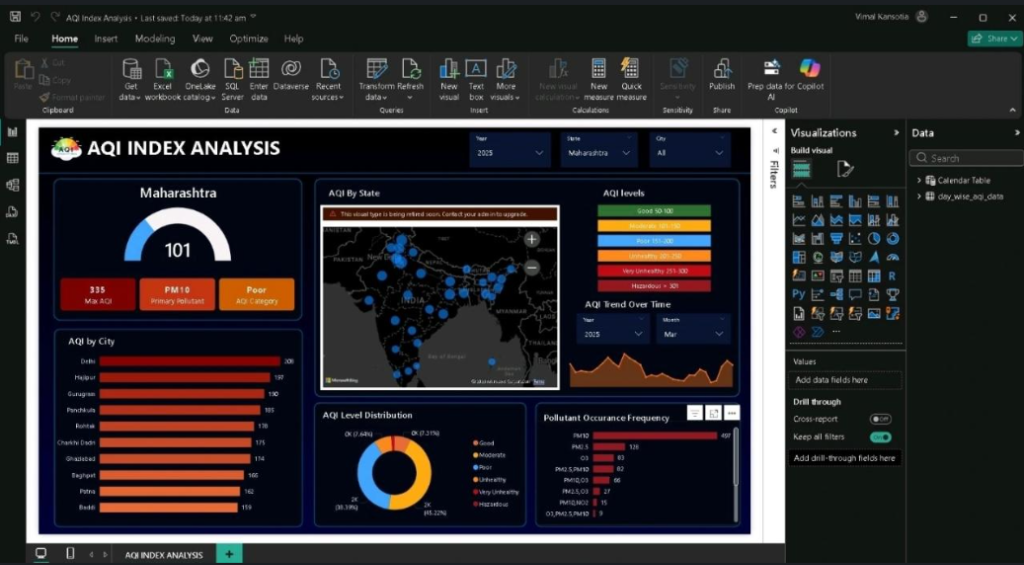
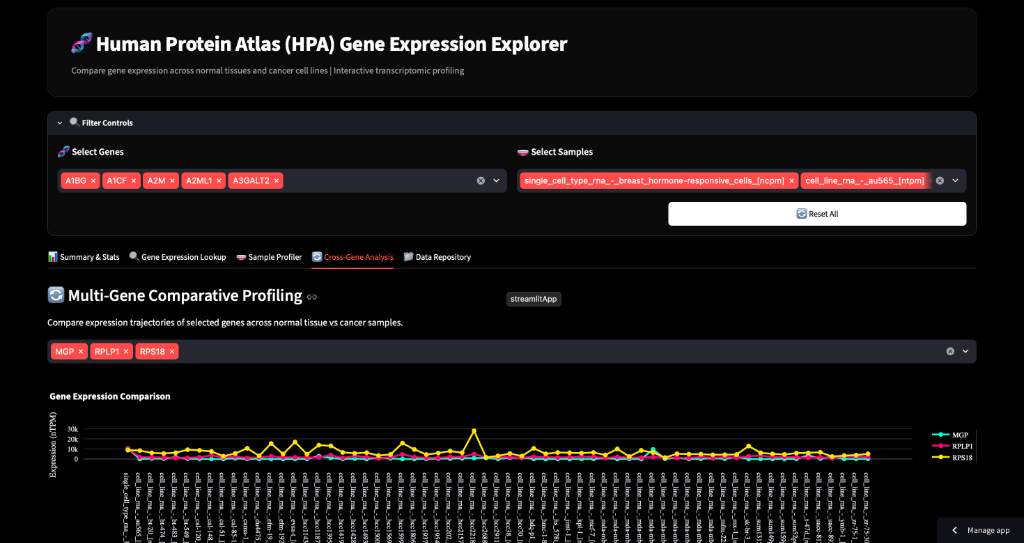
feat: add PCV3 Bioinformatics project and update HPA project image

diff --git a/src/components/ProjectsSection.jsx b/src/components/ProjectsSection.jsx
@@ -57,6 +57,27 @@ const DEFAULT_PROJECTS = [
     github: 'https://github.com/vimal-kansotia/loan-credit-risk-prediction'
   },
   {
+    id: 'project-pcv3-bioinformatics',
+    title: 'PCV3 Bioinformatics & Phylogenetics Dashboard',
+    category: 'BIOINFORMATICS & GENOMIC DATA SCIENCE',
+    description: 'Comprehensive bioinformatics and genomic data science pipeline for analyzing genome variation, phylogenetics, and spatio-temporal trends across 500 complete Porcine Circovirus 3 (PCV3) genome sequences using MAFFT, IQ-TREE 3, PCA, K-Means clustering, and Monte Carlo statistical testing.',
+    techStack: ['Streamlit', 'Python', 'Biopython', 'MAFFT', 'IQ-TREE 3', 'Scikit-learn', 'Plotly', 'Pandas', 'NumPy', 'Phylogenetics'],
+    highlights: [
+      'Analyzed 500 PCV3 complete viral genome sequences (2,156 bp MAFFT alignment with 890 variable sites & 466 parsimony-informative sites)',
+      'Unsupervised ML genomic variation mapping with PCA (PC1: 22.4%, PC2: 15.7%) & K-Means clustering (k=7, Silhouette score 0.6047)',
+      'Maximum Likelihood Phylogenetics using IQ-TREE 3 ModelFinder with best-fit substitution model (GTR+F+I+G4)',
+      'Spatio-Temporal Statistical Testing via Monte Carlo permutation Chi-Square & Cramér\'s V (Geographic V=0.4185, Temporal V=0.3114)',
+      'Extracted genome SNP & k-mer (k=4) feature matrices (2,067 binary features) for variance & density profiling',
+      'Interactive Streamlit web dashboard with interactive tree viewers, PCA scatter plots, spatio-temporal heatmaps, and alignment browser'
+    ],
+    tags: ['Streamlit', 'Python', 'Biopython', 'MAFFT', 'IQ-TREE 3', 'Scikit-learn', 'Plotly', 'Phylogenetics'],
+    accent: 'green',
+    iconKey: 'dna',
+    image: '/projects/pcv3-bioinformatics.png',
+    link: 'https://pcv3-bioinformatics-dashboard.streamlit.app',
+    github: 'https://github.com/vimal-kansotia/PCV3-Bioinformatics-Dashboard'
+  },
+  {
     id: 'project-diabetic-readmission',
     title: 'Diabetic 30-Day Readmission Predictor',
     category: 'HEALTHCARE ML & EXPLAINABILITY',

diff --git a/src/data/portfolioContent.js b/src/data/portfolioContent.js
@@ -94,7 +94,7 @@ export function createDefaultPortfolioContent({ heroImage, resumeUrl }) {
       ],
       stats: [
         { id: 'stat-cgpa', value: '8.3+', label: 'Academic CGPA' },
-        { id: 'stat-projects', value: '6+', label: 'Data Science Projects' },
+        { id: 'stat-projects', value: '7+', label: 'Data Science Projects' },
         { id: 'stat-skills', value: '35+', label: 'Technical Skills' },
         { id: 'stat-focus', value: 'Data', label: 'Core Focus' },
       ],
@@ -250,6 +250,17 @@ export function createDefaultPortfolioContent({ heroImage, resumeUrl }) {
         'bar-chart',
         'https://loan-credit-risk-prediction.streamlit.app',
         '/projects/loan-credit-risk.png'
+      ),
+      createProject(
+        'project-pcv3-bioinformatics',
+        'PCV3 Bioinformatics & Phylogenetics Dashboard',
+        'Comprehensive bioinformatics and genomic data science pipeline for analyzing genome variation, phylogenetics, and spatio-temporal trends across 500 complete Porcine Circovirus 3 (PCV3) genome sequences using MAFFT, IQ-TREE 3, PCA, K-Means clustering, and Monte Carlo statistical testing.',
+        ['Streamlit', 'Python', 'Biopython', 'MAFFT', 'IQ-TREE 3', 'Scikit-learn', 'Plotly', 'Phylogenetics'],
+        'green',
+        'dna',
+        'https://pcv3-bioinformatics-dashboard.streamlit.app',
+        '/projects/pcv3-bioinformatics.png',
+        'https://github.com/vimal-kansotia/PCV3-Bioinformatics-Dashboard'
       ),
       createProject(
         'project-diabetic-readmission',
